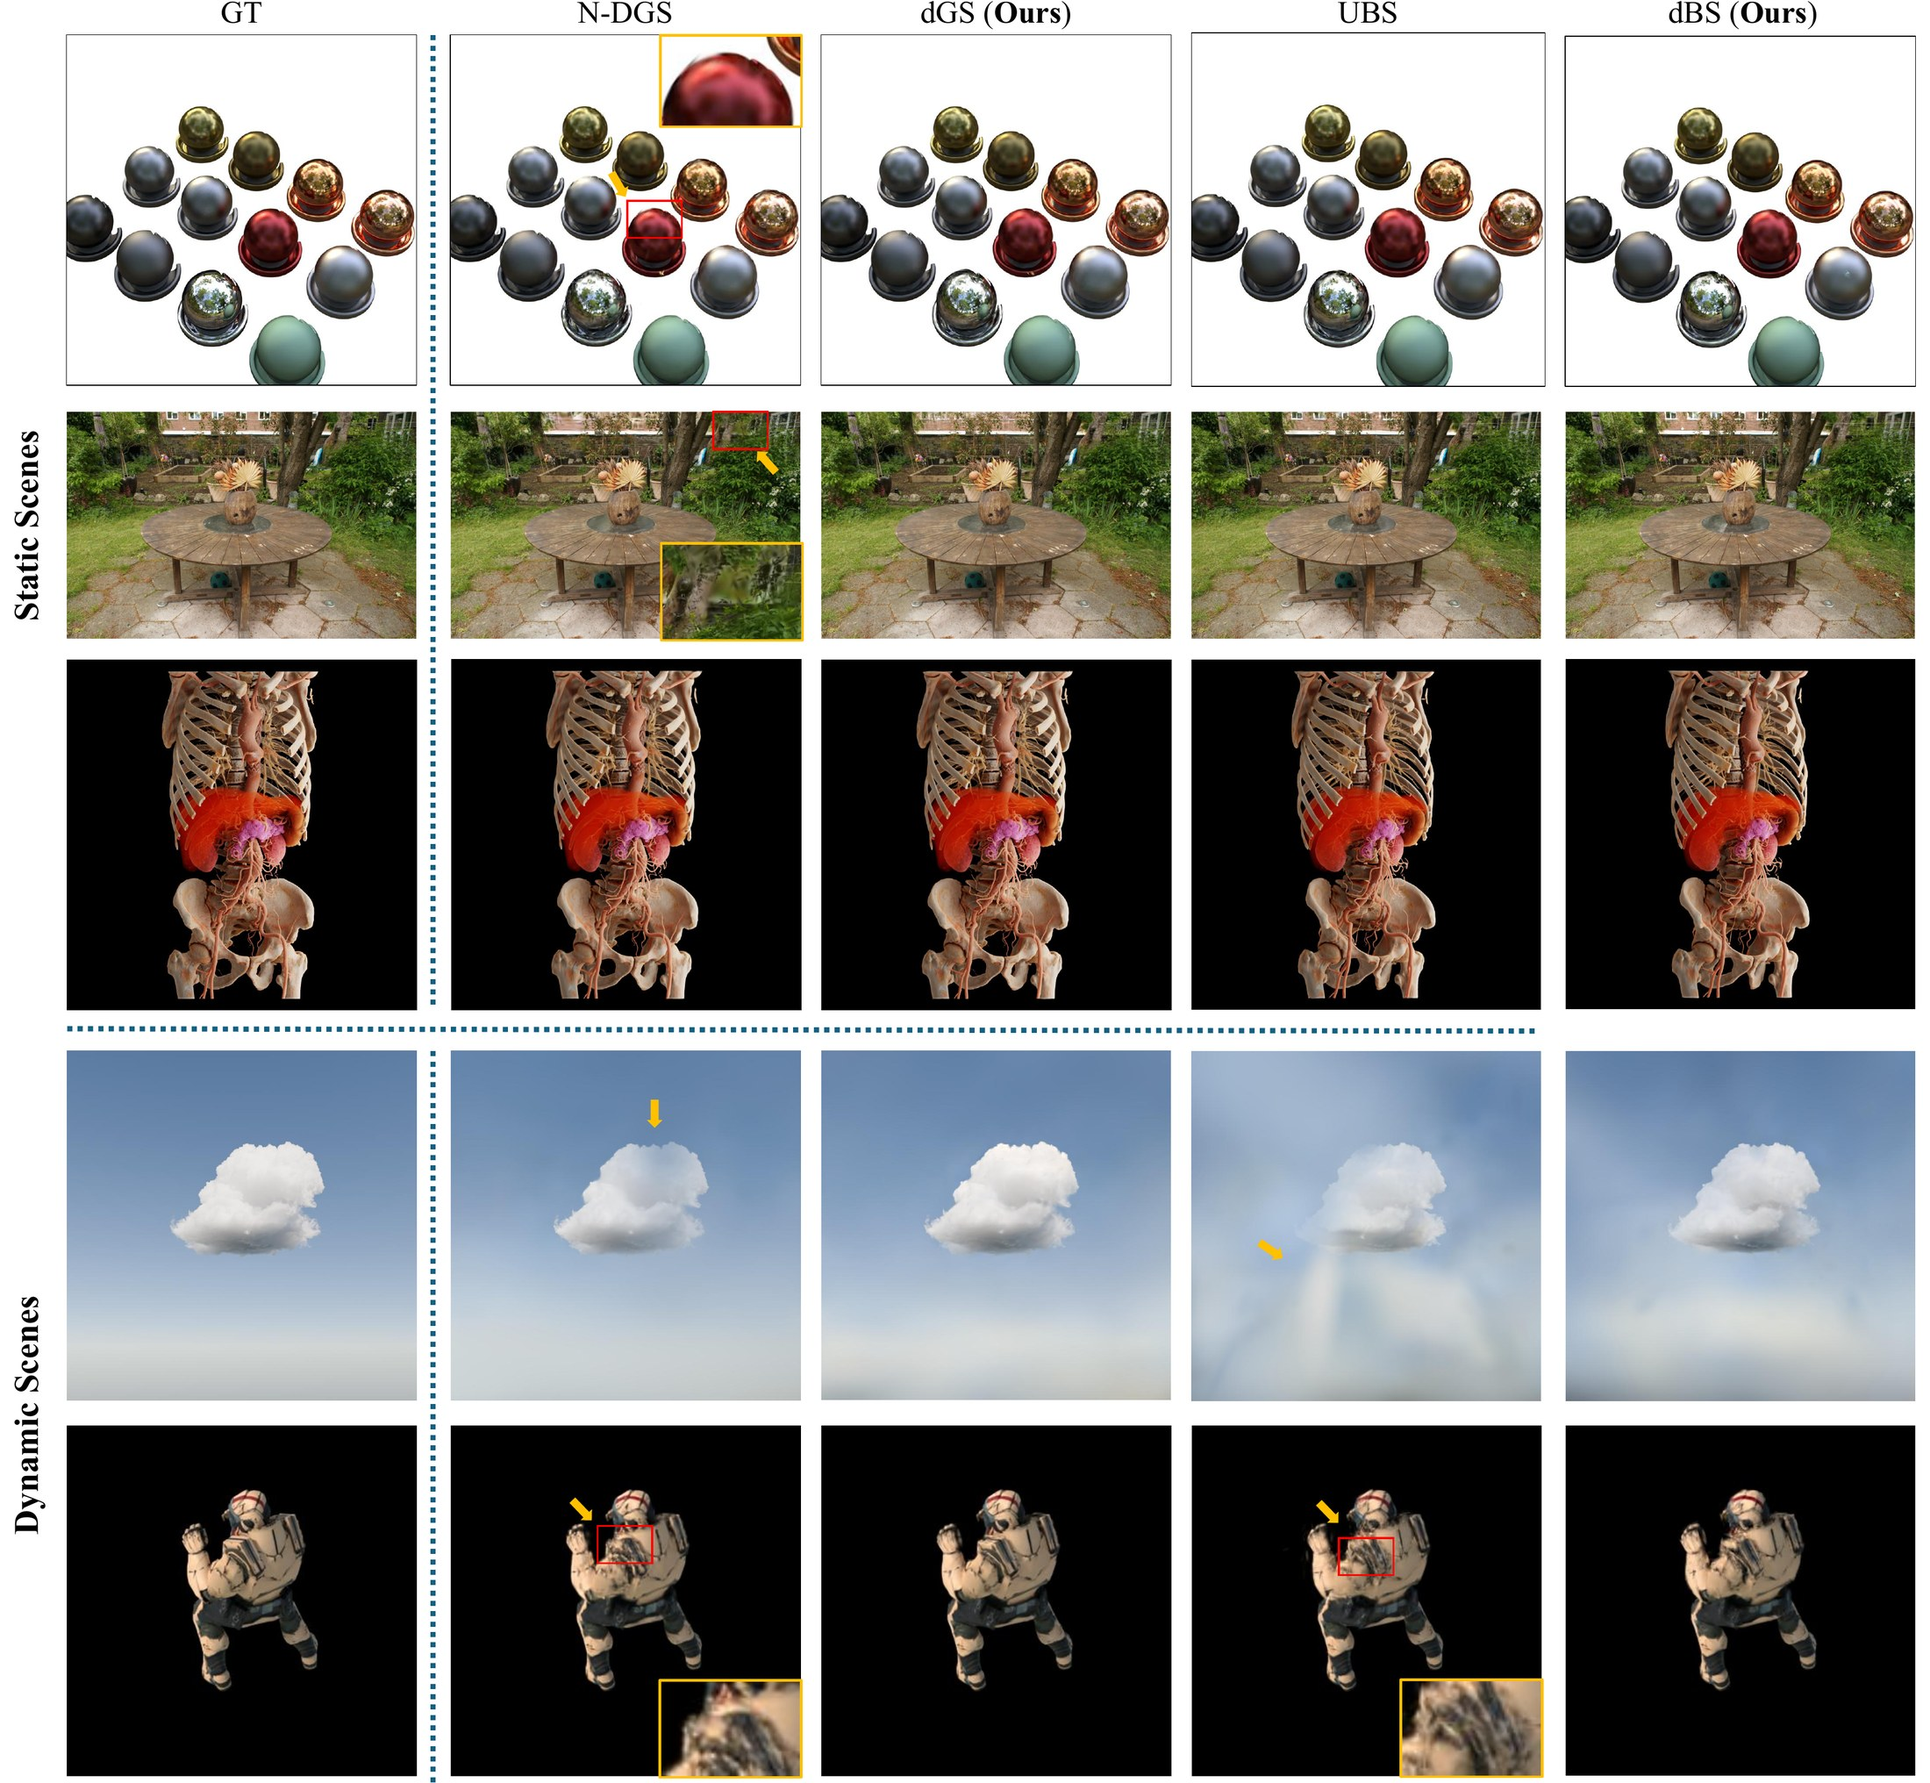
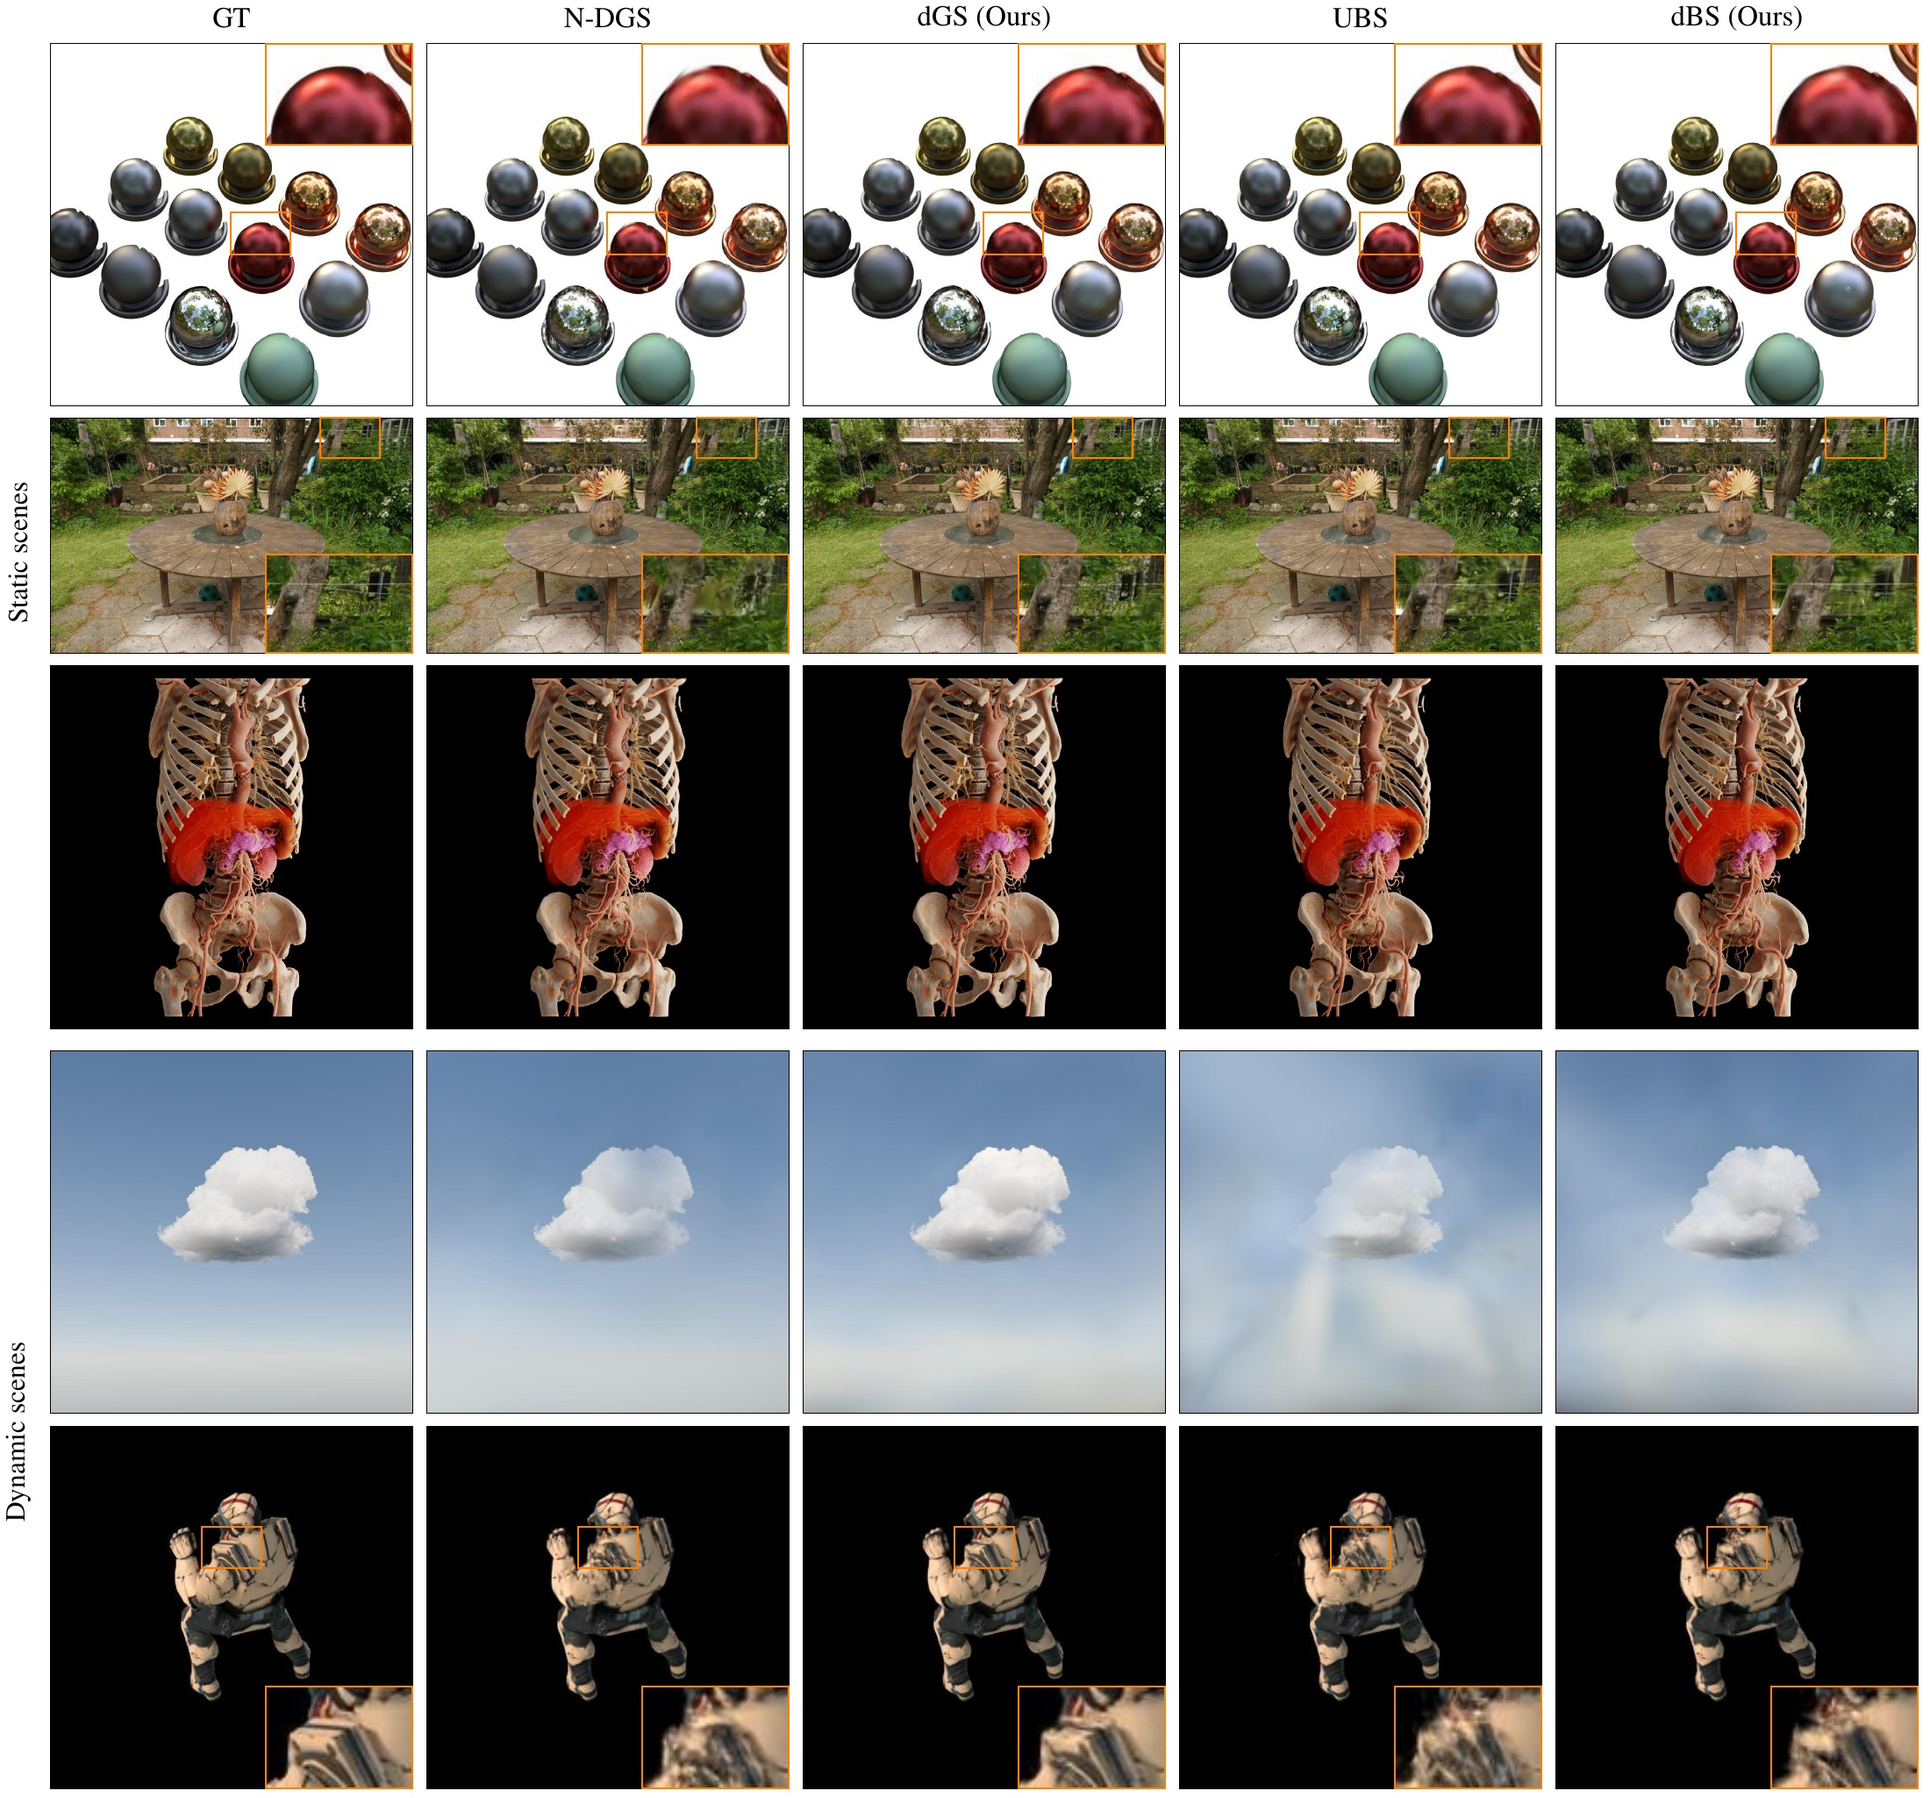
Sync project page with camera-ready results and mark arXiv coming soon

diff --git a/index.html b/index.html
@@ -3,7 +3,7 @@
 
 <head>
   <meta charset="utf-8">
-  <meta name="description" content="dGS / dBS: Direct Conditional Parameterization for N-Dimensional Splatting. A kernel-agnostic drop-in replacement for covariance-derived conditioning, 6.9-7.7x faster slicing. NeurIPS 2026.">
+  <meta name="description" content="dGS / dBS: Direct Conditional Parameterization for N-Dimensional Splatting. A structured, kernel-agnostic approach with 6.9-7.7x faster production slicing and 1.25-1.91x complete-render speedups on four profiled scenes. NeurIPS 2026.">
   <meta property="og:title" content="dGS / dBS (NeurIPS 2026)" />
   <meta property="og:description" content="Direct Conditional Parameterization for N-Dimensional Splatting" />
   <meta property="og:url" content="https://gaozhongpai.github.io/dgs/" />
@@ -73,6 +73,7 @@
     .rfm-metrics td.c-name{text-align:left}
 
     .nd-hero .button.is-static-soon{opacity:.6;cursor:default;pointer-events:none}
+    @media (max-width:768px){.nd-stat .num.dg-speed-range{font-size:clamp(.95rem,4vw,1.45rem);white-space:nowrap}}
   </style>
 </head>
 
@@ -134,14 +135,14 @@
 
             <div class="column has-text-centered">
               <div class="publication-links">
-                <!-- TODO: point these at the OpenReview forum / arXiv / code release once public -->
+                <!-- Enable the arXiv link once the paper is publicly available. -->
                 <span class="link-block">
-                  <a class="external-link button is-normal is-rounded is-dark is-static-soon" aria-disabled="true">
+                  <button type="button" class="external-link button is-normal is-rounded is-dark is-static-soon" disabled aria-label="arXiv paper coming soon">
                     <span class="icon">
                       <svg xmlns="http://www.w3.org/2000/svg" viewBox="0 0 384 512" width="1em" height="1em" fill="currentColor" aria-hidden="true"><path d="M224 136V0H24C10.7 0 0 10.7 0 24v464c0 13.3 10.7 24 24 24h336c13.3 0 24-10.7 24-24V160H248c-13.2 0-24-10.8-24-24zm76.45 211.36l-96.42 95.7c-6.65 6.61-17.39 6.61-24.04 0l-96.42-95.7C73.42 337.29 80.54 320 94.82 320H160v-80c0-8.84 7.16-16 16-16h32c8.84 0 16 7.16 16 16v80h65.18c14.28 0 21.4 17.29 10.27 27.36zM377 105L279.1 7c-4.5-4.5-10.6-7-17-7H256v128h128v-6.1c0-6.3-2.5-12.4-7-16.9z"/></svg>
                     </span>
-                    <span>Paper (soon)</span>
-                  </a>
+                    <span>arXiv (coming soon)</span>
+                  </button>
                 </span>
               </div>
             </div>
@@ -153,9 +154,9 @@
 
   <!-- ======================= STAT STRIP ======================= -->
   <div class="nd-stats">
-    <div class="nd-stat"><div class="num">7.7&times;</div><div class="lbl">Faster conditional slicing</div></div>
-    <div class="nd-stat"><div class="num">2.66&times;</div><div class="lbl">Faster end-to-end rendering</div></div>
-    <div class="nd-stat"><div class="num">+1.26 dB</div><div class="lbl">Top PSNR gain (7DGS-PBR)</div></div>
+    <div class="nd-stat"><div class="num">7.7&times;</div><div class="lbl">Peak production-slicing speedup</div></div>
+    <div class="nd-stat"><div class="num dg-speed-range">1.25&ndash;1.91&times;</div><div class="lbl">Measured complete-render speedup</div></div>
+    <div class="nd-stat"><div class="num">+1.26 dB</div><div class="lbl">PSNR gain on 7DGS-PBR</div></div>
   </div>
 
   <!-- ======================= TEASER ======================= -->
@@ -180,28 +181,26 @@
           <h2 class="title is-3">Abstract</h2>
           <div class="content has-text-justified">
             <p>
-              N-dimensional splatting extends 3D Gaussian Splatting with conditioning variables such as view direction
-              and time to model view-dependent and dynamic effects. Each primitive is lifted into a joint distribution
-              over 3D position and conditioning variables, and at render time is <i>conditionally sliced</i> at the query
-              to recover a 3D primitive whose mean, opacity, and covariance vary continuously with view or time.
+              N-dimensional splatting extends 3D Gaussian Splatting with view direction and time to model view-dependent
+              and dynamic effects. Each primitive is lifted into a joint distribution over position and conditioning
+              variables, then conditionally sliced at each rendering query. N-DGS and UBS share this step across Gaussian
+              and Beta kernels: recovering the conditional mean, opacity, and covariance requires per-primitive matrix
+              inversions and regression products in every forward pass.
             </p>
             <p>
-              N-DGS (covering 6DGS and 7DGS) and UBS together represent the leading N-dimensional splatting formulations
-              across Gaussian and Beta kernels, but share the same conditional-slicing step: all three effects are derived
-              from the joint covariance matrix per primitive in every forward pass, requiring matrix inversions and
-              regression-matrix multiplications that scale with primitive count. The conditional-slicing step is
-              kernel-agnostic, so a single improvement carries across families.
+              We introduce <b>direct conditional parameterization</b>, replacing this covariance-derived readout with
+              explicit per-effect parameters: a Cholesky precision factor for opacity and a factorized query-to-position
+              regression operator with learnable per-dimension coupling. Unrestricted conditional coordinates recover
+              a valid joint covariance; our factorization adds spatial-scale and coupling priors. Applied to both kernels,
+              the parameterization yields <span class="mname"><em>d</em>GS</span> (Gaussian) and
+              <span class="mname"><em>d</em>BS</span> (Beta).
             </p>
             <p>
-              We introduce <b>direct conditional parameterization</b>, replacing the covariance-derived form with explicit
-              per-effect parameters: a <b>Cholesky precision factor</b> for opacity and a <b>displacement matrix with
-              learnable per-dimension coupling</b> for position. Applied to both kernels, the parameterization yields
-              <span class="mname"><em>d</em>GS</span> (Gaussian) and <span class="mname"><em>d</em>BS</span> (Beta). Across
-              five static and dynamic benchmarks, <span class="mname"><em>d</em>GS</span> and
-              <span class="mname"><em>d</em>BS</span> match or exceed their covariance-derived counterparts on quality (up
-              to <b>+1.26&nbsp;dB</b> in the main MCMC evaluation) while running <b>6.9&ndash;7.7&times; faster</b> at the
-              slicing step and up to <b>2.66&times; faster</b> end-to-end rendering. Direct conditioning is a
-              kernel-agnostic drop-in replacement for covariance-derived conditioning in N-dimensional splatting.
+              Across five static and dynamic benchmarks, they match or exceed their covariance-derived counterparts on
+              quality, with gains up to <b>+1.26&nbsp;dB</b> in the main MCMC evaluation. Production slicing is
+              <b>6.9&ndash;7.7&times; faster</b> than on-the-fly covariance-derived conditioning; complete-render profiling
+              gives <b>1.25&ndash;1.91&times; speedups on four trained scenes</b>. Direct conditioning provides a structured,
+              kernel-agnostic alternative for N-dimensional splatting.
             </p>
           </div>
         </div>
@@ -232,13 +231,13 @@
             <div class="dg-card">
               <div class="tag-line">Coupling &middot; &Lambda;</div>
               <h4>Learnable per-dimension coupling</h4>
-              <p>&Lambda; &isin; [0,1]<sup>C</sup> decides how much each query dimension moves the mean.
-                 0 decouples position from opacity; 1 recovers full N-DGS-style coupling.</p>
+              <p>&Lambda; &isin; [0,1]<sup>C</sup> weights precision-transformed query channels.
+                 All-zero weights make position query-independent; all-one weights use the full opacity precision.</p>
             </div>
             <div class="dg-card">
               <div class="tag-line">Position &middot; V<sub>pq</sub></div>
               <h4>Spatially scaled coupling factor</h4>
-              <p>V<sub>pq</sub> = s&#772;&Theta;<sub>pq</sub> ties the shift to the primitive's mean scale.
+              <p>V<sub>pq</sub> = s&#772;&Theta;<sub>pq</sub> scales the coupling factor by the primitive's mean scale.
                  Removing this prior costs 2.65&ndash;2.97&nbsp;dB.</p>
             </div>
           </div>
@@ -280,7 +279,7 @@
               </tbody>
             </table>
           </div>
-          <p class="dg-note has-text-centered">Slicing-only CUDA forward pass, 1M Gaussians, NVIDIA A100. Speedups are over the covariance-derived counterpart.</p>
+          <p class="dg-note has-text-centered">Production slicing-only CUDA forward pass, 1M primitives, NVIDIA A100. Speedups compare optimized on-the-fly covariance-derived conditioning.</p>
         </div>
       </div>
     </div>
@@ -293,8 +292,8 @@
         <div class="column is-full-width has-text-centered">
           <h2 class="title is-3">Quantitative Results</h2>
           <p class="content has-text-centered dg-cap">
-            MCMC densification with matched Gaussian budgets. Each direct method is paired with its covariance-derived
-            counterpart, so any difference reflects the conditioning parameterization alone.
+            MCMC densification with matched per-scene primitive caps. Each direct method is paired with its
+            covariance-derived counterpart; the reported counts are the learned scene means.
           </p>
           <div class="rfm-table-wrap">
             <table class="rfm-metrics">
@@ -335,9 +334,10 @@
             </table>
           </div>
           <p class="dg-note">
-            Means over all scenes. FPS uses a PyTorch reference slicer; FPS<sub>CUDA</sub> uses the fused CUDA slicing
-            kernel. Bold = better of each pair. All methods: NVIDIA A100, 30K iterations, TC-GS rasterizer, identical
-            learning rates and densification schedules per dataset.
+            Scene means from one run per scene. FPS is an arithmetic scene mean using a PyTorch reference slicer;
+            FPS<sub>CUDA</sub> uses fused CUDA slicing. Bold = better of each pair. All methods: NVIDIA A100, 30K
+            iterations, TC-GS rasterizer, identical learning rates and densification schedules per dataset.
+            Separate profiling on four trained scenes gives 1.25&ndash;1.91&times; complete-render speedups.
           </p>
 
           <!-- ---------- SOTA ---------- -->
@@ -345,7 +345,8 @@
           <p class="content has-text-centered dg-cap">
             <span class="mname"><em>d</em>BS</span> achieves the best PSNR on Mip-NeRF&nbsp;360 (28.70&nbsp;dB) and ties
             for best PSNR on NeRF&nbsp;Synthetic (34.53&nbsp;dB). UBS and <span class="mname"><em>d</em>BS</span> are
-            re-evaluated under the 3DGS protocol, so UBS numbers differ from the original paper.
+            re-evaluated under the same 3DGS protocol, so UBS numbers differ from the original paper.
+            Other literature baselines retain their published protocols.
           </p>
           <div class="rfm-table-wrap">
             <table class="rfm-metrics">
@@ -384,12 +385,12 @@
                   <td>27.35</td><td>0.827</td><td>0.186</td><td class="sep">33.24</td><td>0.967</td><td>0.043</td></tr>
                 <tr><td class="c-name">Quadratic GS</td>
                   <td>27.39</td><td>0.813</td><td>0.213</td><td class="sep">&ndash;</td><td>&ndash;</td><td>&ndash;</td></tr>
-                <tr><td class="c-name">Disc-GS</td>
+                <tr><td class="c-name">DisC-GS</td>
                   <td>28.01</td><td>0.833</td><td>0.189</td><td class="sep">&ndash;</td><td>&ndash;</td><td>&ndash;</td></tr>
                 <tr><td class="c-name">Triangle Splatting</td>
-                  <td>27.00</td><td>0.808</td><td>0.231</td><td class="sep">&ndash;</td><td>&ndash;</td><td>&ndash;</td></tr>
+                  <td>27.16</td><td>0.814</td><td>0.191</td><td class="sep">&ndash;</td><td>&ndash;</td><td>&ndash;</td></tr>
                 <tr><td class="c-name">Radiance Meshes</td>
-                  <td>27.15</td><td>0.810</td><td>0.274</td><td class="sep">&ndash;</td><td>&ndash;</td><td>&ndash;</td></tr>
+                  <td>27.16</td><td>0.819</td><td>0.255</td><td class="sep">&ndash;</td><td>&ndash;</td><td>&ndash;</td></tr>
                 <tr><td class="c-name">Spherical Voronoi</td>
                   <td class="second">28.57</td><td>0.835</td><td>0.230</td><td class="sep best">34.53</td><td class="second">0.973</td><td>0.032</td></tr>
                 <tr><td class="c-name">UBS</td>
@@ -438,7 +439,7 @@
   <section class="section nd-reveal">
     <div class="container is-max-desktop">
       <h2 class="title is-3 has-text-centered">Qualitative Comparison</h2>
-      <img src="static/images/qualitative.jpg" alt="Qualitative comparison on static and dynamic scenes" style="width:100%;">
+      <img src="static/images/qualitative.jpg?v=20261015" alt="Qualitative comparison on static and dynamic scenes, with identical crop coordinates and magnification across methods" style="width:100%;">
       <p class="content has-text-justified" style="margin-top:.8rem;">
         Static and dynamic scenes. <span class="mname"><em>d</em>GS</span> shows noticeably fewer artifacts than N-DGS
         on static scenes. On dynamic scenes, <span class="mname"><em>d</em>GS</span> and
